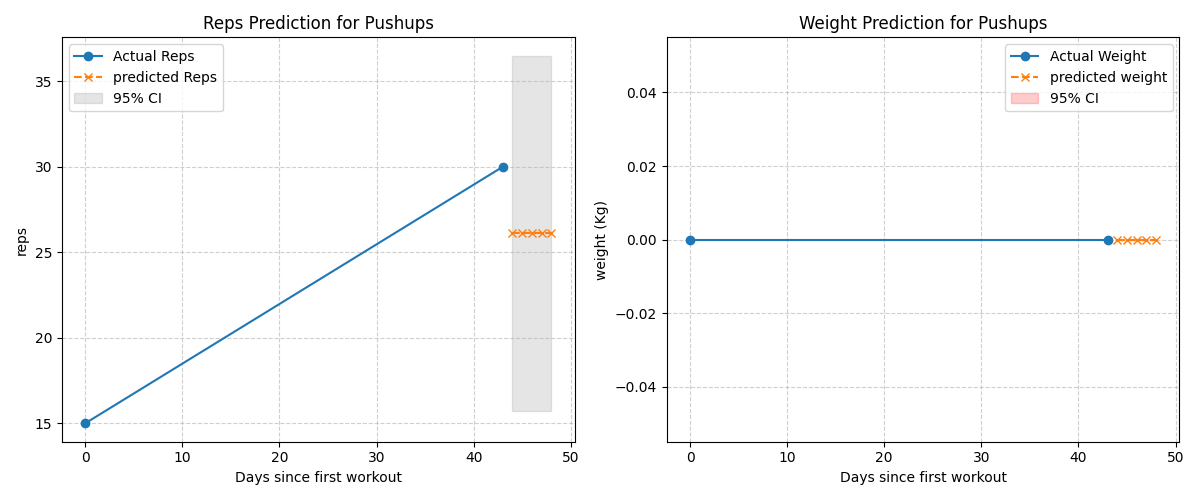
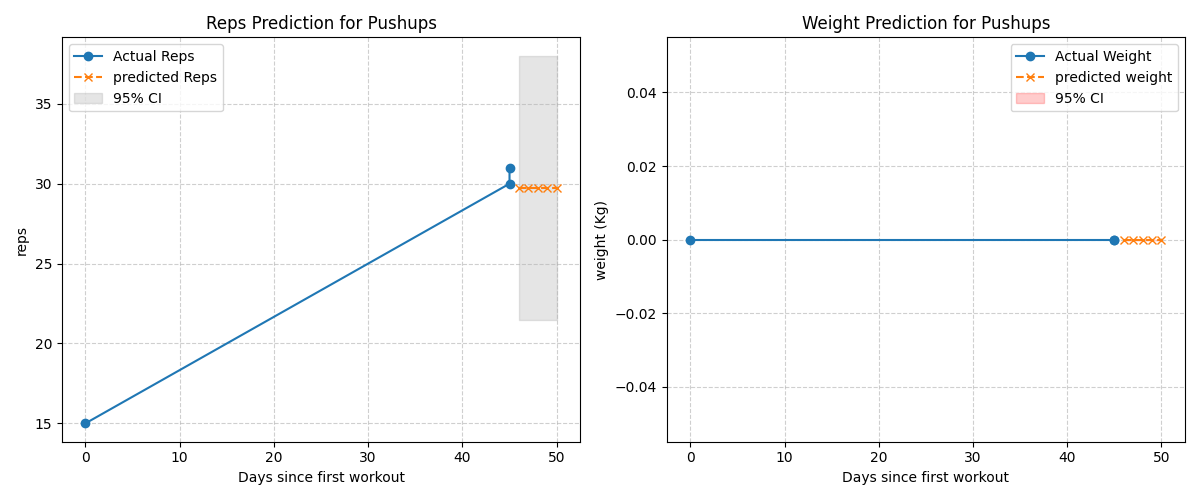
fixing

diff --git a/predictor.py b/predictor.py
@@ -3,6 +3,7 @@ import numpy as np
 import matplotlib.pyplot as plt
 from datetime import datetime
 from sklearn.ensemble import RandomForestRegressor
+from sklearn.isotonic import IsotonicRegression
 import schedule
 import time
 
@@ -30,18 +31,20 @@ def predict_targets(dates, reps, weights):
     
     days = np.array([(d - dates[0]).days for d in dates]). reshape(-1, 1)
     future_days = np.array([days[-1][0] + i for i in range (1, 6)]).reshape(-1, 1) 
-    model_reps = RandomForestRegressor(n_estimators=100, random_state=42).fit(days, reps)
-    model_weight = RandomForestRegressor(n_estimators=100, random_state=42).fit(days, weights)
-
-    future_reps = model_reps.predict(future_days)
-    future_weights = model_weight.predict(future_days)
-
+    iso_reps = IsotonicRegression(out_of_bounds='clip')
+    iso_reps.fit(days.flatten(), reps)
+    future_reps = iso_reps.predict(future_days.flatten())
     future_reps = np.maximum.accumulate(future_reps)
+
+    model_weights = RandomForestRegressor(n_estimators=100, random_state=42).fit(days, weights)
+    future_weights = model_weights.predict(future_days)
     future_weights = np.maximum.accumulate(future_weights)
 
     # Formula Taken From maths studies
     reps_ci = 1.96 * np.std(reps) / np.sqrt(len(reps))
     weights_ci = 1.96 * np.std(weights) / np.sqrt(len(weights)) 
+    if len(reps) < 5: reps_ci *= 0.5
+    if len(weights) < 5: weights_ci *= 0.5
 
     return days, future_days, future_reps, future_weights, reps_ci, weights_ci
 
@@ -59,7 +62,7 @@ def plot_predictions(days, reps, weights, future_days, future_reps, future_weigh
     plt.fill_between(future_days.flatten(), lower_reps, upper_reps, color='gray', alpha=0.2, label="95% CI")
     plt.title(f"Reps Prediction for {exercise.capitalize()}")
     plt.xlabel("Days since first workout")
-    plt.ylabel("reps")
+    plt.ylabel("Reps")
     plt.grid(True, linestyle="--", alpha=0.6)
     plt.legend()
 
@@ -73,7 +76,7 @@ def plot_predictions(days, reps, weights, future_days, future_reps, future_weigh
     plt.fill_between(future_days.flatten(), lower_weights, upper_weights, color='red', alpha=0.2, label="95% CI")
     plt.title(f"Weight Prediction for {exercise.capitalize()}")
     plt.xlabel("Days since first workout")
-    plt.ylabel("weight (Kg)")
+    plt.ylabel("Weight (Kg)")
     plt.grid(True, linestyle="--", alpha=0.6)
     plt.legend()
 
